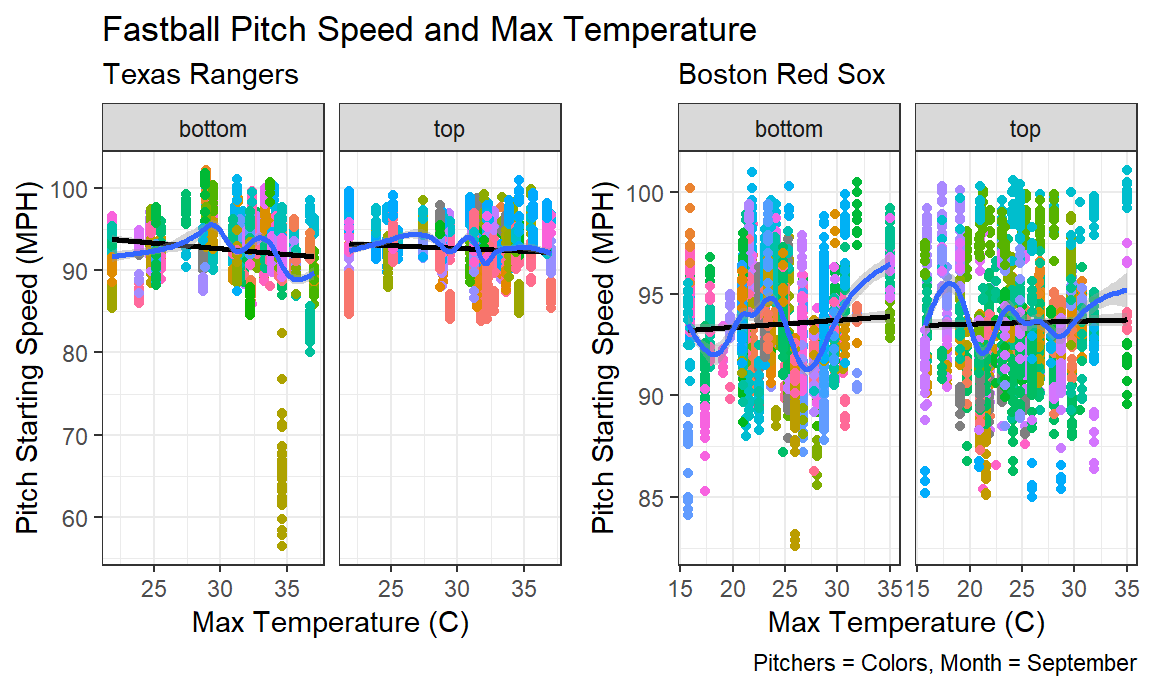
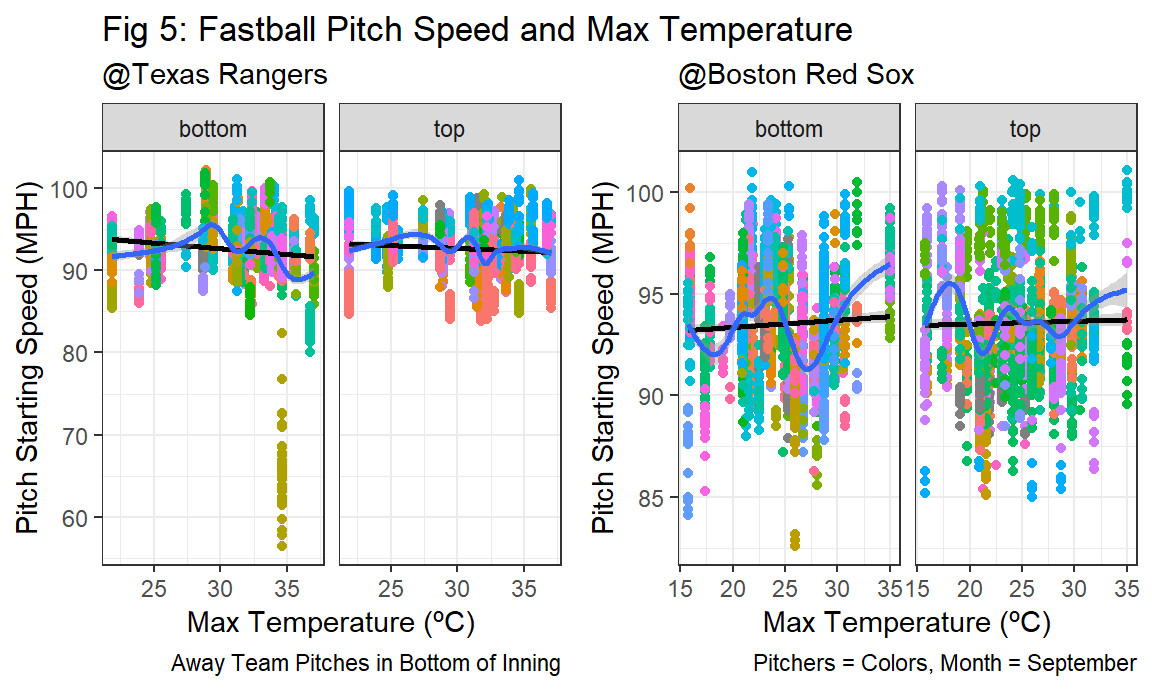
more tidying of the report and knitting

diff --git a/report_draft_two.html b/report_draft_two.html
@@ -230,7 +230,7 @@ $(document).ready(function () {
 <p>By: Brennan Baker, Nicole Comfort, Victoria Lynch, Stephen Lewandowski, Jenni Shearston</p>
 <div id="motivation-and-related-work" class="section level2">
 <h2>Motivation and Related Work</h2>
-<p>Advanced statistical analytics are central to evaluating players, developing teams, and informing in-game decisions throughout professional sports. The growing influence of sport analytics is arguably most evident in Major League Baseball, where teams that prioritize [sabermetrics] (<a href="https://sabr.org/sabermetrics" class="uri">https://sabr.org/sabermetrics</a>) have won the last three World Series. Baseball is uniquely suited to statistical analysis, as its components – pitching, hitting, and fielding – are discrete events that result in unambiguous decisions, as classified by the official game scorers, and can be attributed to specific players. Baseball also generates a substantial amount of data; the 30 MLB teams play a combined 2,430 games in the regular season, during which over 900,000 pitches are thrown across more than 165,000 at-bats.</p>
+<p>Advanced statistical analytics are central to evaluating players, developing teams, and informing in-game decisions throughout professional sports. The growing influence of sport analytics is arguably most evident in Major League Baseball, where teams that prioritize <a href="https://sabr.org/sabermetrics">sabermetrics</a> have won the last three World Series. Baseball is uniquely suited to statistical analysis, as its components – pitching, hitting, and fielding – are discrete events that result in unambiguous decisions, as classified by the official game scorers, and can be attributed to specific players. Baseball also generates a substantial amount of data; the 30 MLB teams play a combined 2,430 games in the regular season, during which over 900,000 pitches are thrown across more than 165,000 at-bats.</p>
 <p>Sabermetric analysts sift through this exhaustive amount of data to identify competitive advantages among increasingly similar, dominant players. The arms race between pitchers and hitters has elevated the game, as pitchers are throwing harder and batters are hitting more home runs than at any point in MLB history.</p>
 <p>In addition to assessing player matchups, analysts aim to identify external factors that could influence players’ performances, particularly weather. Over the course of a six-month MLB season, teams expect to play in a range of weather extremes, from 100-degree days in Los Angeles to snowy conditions in Milwaukee in the early spring. A growing body of sabermetric research has found that game-day weather affects <a href="https://journals.ametsoc.org/doi/abs/10.1175/WCAS-D-13-00002.1">the number of home runs</a>, <a href="https://www.betlabssports.com/blog/mlb-runs-scored-influenced-temperature/">total runs scored</a>, and <a href="https://www.fangraphs.com/blogs/what-pitchers-and-numbers-say-about-pitching-in-the-cold/">pitcher ball control</a>.</p>
 <p>Our goal was to build on this body of work by examining the association between weather variables – temperature, humidity, and relative humidity – and the speed of pitches. We hypothesized that on extremely hot days (&gt;35 ºC): 1) pitch speed would decrease and 2) the proportion of non-fastball to fastball pitches would increase. We used the PITCHf/x database from MLB Advanced Media to collect data for every pitch thrown between 2016 and 2018 and extracted daily temperature and humidity measures for each ballpark location from the PRISM database. We conducted exploratory data analysis to identify overall trends between weather variables and pitch speed or pitch type. We also used simple linear regression models to determine the effect of daily heat index and daily maximum temperature on the speed of four-seam fastballs. Finally, we focused on games played at Globe Life Park in Arlington, Texas, home of the Rangers, and examined the pitch speed of visiting pitchers, who presumably have not adapted to the extreme Texas heat, across heat extremes.</p>
@@ -265,7 +265,7 @@ $(document).ready(function () {
 <h4>Google Earth Engine</h4>
 <p>Using the code editor in the Google Earth Engine platform (<a href="https://code.earthengine.google.com" class="uri">https://code.earthengine.google.com</a>), we extracted maximum daily temperature (<code>tmax</code>), minimum daily temperature (<code>tmin</code>), and mean daily dew point temperature (<code>tdmean</code>) from April 2015 through October 2018 at each MLB stadium location. We obtained the latitude and longitude coordinates for each ballpark from a Google Fusion Table (<a href="https://fusiontables.google.com/DataSource?docid=1EXApOoxEgJUFlbMjUodfxBSWlRvgQNpABeddHqiN#rows:id=1" class="uri">https://fusiontables.google.com/DataSource?docid=1EXApOoxEgJUFlbMjUodfxBSWlRvgQNpABeddHqiN#rows:id=1</a>), which we imported to Earth Engine. We used JavaScript code to create arrays that collect each weather parameter mapped over each ballpark location for each day, reduced to the first observation reflecting the grid at the point of interest, which are then flattened to two dimensional tables.</p>
 <p><img src = "gee_screen_capture.PNG" height = "500px" width = "400px" /></p>
-<p>Figure 1. The image above is a screenshot of the Earth Engine code editor. The map displays maximum daily temperatures across the United States on July 05, 2018 from the PRISM model.</p>
+<p><strong>Fig 1:</strong> The image above is a screenshot of the Earth Engine code editor. The map displays maximum daily temperatures across the United States on July 05, 2018 from the PRISM model.</p>
 <p>The JavaScript code for downloading PRISM data is provided at (gee.html). A registered Google account is required to access the code editor.</p>
 </div>
 <div id="tidy-weather-data" class="section level4">
@@ -359,9 +359,9 @@ write_csv(weather, path = &quot;./data/weather.csv&quot;) </code></pre>
 </div>
 <div id="helpful-packages" class="section level4">
 <h4>Helpful packages</h4>
-<p>We gathered PITCHf/x data using the r package “pitchRx” (<a href="https://pitchrx.cpsievert.me/" class="uri">https://pitchrx.cpsievert.me/</a>). The “pitchRx” package relies on the “XML2R” package to easily convert XML tables into data tables in r. In particular, the “scrape” function in the “pitchRx” package allows you to gather all the pitch data between a specified start and end date.</p>
+<p>We gathered PITCHf/x data using the r package <a href="https://pitchrx.cpsievert.me/">“pitchRx”</a>. The “pitchRx” package relies on the “XML2R” package to easily convert XML tables into data tables in r. In particular, the “scrape” function in the “pitchRx” package allows you to gather all the pitch data between a specified start and end date.</p>
 <p>Gathering a large amount of pitch data, however, may use up too much random-access memory. To solve this problem, we used the “dplyr” package to create an SQLite database, which aids in memory management.</p>
-<p>The baseball data used for this project can be accessed by Google Drive here: (<a href="https://drive.google.com/drive/u/0/search?q=sqlite" class="uri">https://drive.google.com/drive/u/0/search?q=sqlite</a>)</p>
+<p>The baseball data used for this project can be accessed by Google Drive <a href="https://drive.google.com/drive/u/0/search?q=sqlite">here.</a></p>
 </div>
 <div id="gathering-pitch-data" class="section level4">
 <h4>Gathering pitch data</h4>
@@ -409,13 +409,13 @@ pitch_tidy_db = collect(inner_join(pitch, atbat, by = c(&quot;num&quot;, &quot;u
   left_join(weather_db) %&gt;% 
   # Remove stadiums with a roof
   filter(!home %in% c(&quot;aas&quot;, &quot;nas&quot;, &quot;tor&quot;, &quot;ari&quot;, &quot;sea&quot;, &quot;hou&quot;, &quot;tba&quot;, &quot;mia&quot;, &quot;1&quot;, &quot;2&quot;)) %&gt;%  
-  separate(date, c(&quot;y&quot;, &quot;m&quot;, &quot;d&quot;))
-  # Retain only XX of 81 variables, to make the size of the dataset easier to work with 
-  # select(start_speed, pitch_type, inning_side, inning, event, pitcher_name, y, m, d, team_name, tmax:rh, type) 
+  separate(date, c(&quot;y&quot;, &quot;m&quot;, &quot;d&quot;)) %&gt;% 
+  # Retain only some of 81 variables, to make the size of the dataset easier to work with 
+  select(start_speed, pitch_type, inning_side, inning, event, pitcher_name, y, m, d, team_name, tmax:rh, type, home, away) 
 
   # Remove unneeded intermediary data sets to clean environment
-  rm(atbat, my_db, pitch, team_names, weather_db)</code></pre>
-<p>Our final dataset that combines the pitch and weather data is named <code>pitch_tidy_db</code>. After retaining only certain variables of interest, the dataset incudes 2186391 observations of 81.</p>
+  rm(atbat, my_db, pitch, team_names, weather_db, tdmean, tmax, tmin)</code></pre>
+<p>Our final dataset that combines the pitch and weather data is named <code>pitch_tidy_db</code>. The initial dataset contained 2,186,391 observatins of 81 variables. After retaining only certain variables of interest, the dataset incudes 2186391 observations of 19 variables. We excluded Spring Training games, so that data includes only regular and postseason games. Also, games played at indoor stadiums were excluded, as these may not be affected by weather in the same way.</p>
 <p>We examine missing data in our dataset:</p>
 <pre class="r"><code># Examining pitch speed missing data
 missing_data = pitch_tidy_db %&gt;% 
@@ -449,26 +449,28 @@ propff_db %&gt;%
   geom_point() +
   geom_smooth() +
   labs(
-    title = &quot;Figure 2: Proportion of Thrown Pitches that are Fastballs and Max Temperature&quot;,
-    x = &quot;Proportion of Pitches that are Fastballs&quot;,
-    y = &quot;Max Temperature (C)&quot;
+    title = &quot;Fig 2: Percent of Four-seam Fastballs Thrown and Max Temp&quot;,
+    x = &quot;Percent of Pitches that are Fastballs&quot;,
+    y = &quot;Max Temperature (ºC)&quot;,
+    caption = &quot;Includes all pitches in regular and postseason, 2016-2018&quot;
   )</code></pre>
 <pre><code>## `geom_smooth()` using method = &#39;gam&#39; and formula &#39;y ~ s(x, bs = &quot;cs&quot;)&#39;</code></pre>
-<p><img src="report_draft_two_files/figure-html/prop.%20ff%20and%20tmax-1.png" width="90%" /></p>
+<p><img src="report_draft_two_files/figure-html/prop.%20ff%20and%20tmax-1.png" width="100%" /></p>
 <p>However, the graph indicated that absolutely no association existed between these variables.</p>
 <p>Next, several graphs were created to explore the associations between the speed of fastballs and maximum temperature (AD3). Graphs that depicted fastball speed and temperature overall did not suggest specific associations (not shown), so the data was instead faceted by various variables to explore the potential for variation by items such as pitch outcome, team, and pitch type. As one example below, fastball pitch speed against max temperature was plotted, and then faceted by pitch outcome (such as Strikeout, Walk, Single, etc).</p>
 <pre class="r"><code>pitch_tidy_db %&gt;% 
   filter(pitch_type == &quot;FF&quot;) %&gt;% 
   ggplot(aes(x = tmax, y = start_speed)) +
   geom_point() +
-  facet_wrap(~event) +
+  facet_wrap(~event, ncol = 5) +
   labs(
-    title = &quot;Figure 3: Fastball Pitch Speed and Max Temperature, by Pitch Outcome&quot;,
-    x = &quot;Max Temperature (C)&quot;,
-    y = &quot;Pitch Starting Speed (MPH)&quot;
+    title = &quot;Fig 3: Four-seam Fastball Pitch Speed and Max Temp&quot;,
+    x = &quot;Max Temperature (ºC)&quot;,
+    y = &quot;Pitch Starting Speed (MPH)&quot;,
+    caption = &quot;Results faceted by pitch outcome&quot;
   )</code></pre>
-<p><img src="report_draft_two_files/figure-html/ff%20speed%20and%20temp,%20by%20outcome-1.png" width="90%" /></p>
-<p>Interestingly, we can see from the increase in points on the right side of facets such as “Double,” “Flyout,” “Lineout,” “Home Run,” and other outcomes that pitch outcome may be affected by temperature. It may be possible that when temperatures are higher, pitches that are slightly slower are more likely to result in hits.</p>
+<p><img src="report_draft_two_files/figure-html/ff%20speed%20and%20temp,%20by%20outcome-1.png" width="100%" /></p>
+<p>Interestingly, we can see from the increase in points on the right side of facets such as “Double,” “Flyout,” “Lineout,” “Home Run,” and other outcomes that pitch outcome may be affected by temperature. It may be possible that when temperatures are higher, pitches are slightly slower and thus are more likely to result in hits.</p>
 <p>In further exploratory analysis, fastball speed and tempearture was also faceted by home team name (shown below), inning, and fowl/ball/strike status, and a graph of max temperature and pitch speed for all pitches, faceted by pitch type, was created (all not shown). There were some variations by inning and home team, and after discussion, we decided this might in fact be representative of changes in pitcher, and differences in whether or not a pitcher from a specific team typically played in warmer or colder weather. This possibility was explored next.</p>
 <pre class="r"><code>pitch_tidy_db %&gt;% 
   filter(pitch_type == &quot;FF&quot;) %&gt;% 
@@ -476,11 +478,12 @@ propff_db %&gt;%
   geom_point() +
   facet_wrap(~team_name) +
   labs(
-    title = &quot;Figure 4: Fastball Pitch Speed and Max Temperature, by Home Team&quot;,
-    x = &quot;Max Temperature (C)&quot;,
-    y = &quot;Pitch Starting Speed (MPH)&quot;
+    title = &quot;Fig 4: Four-seam Fastball Pitch Speed and Max Temp&quot;,
+    x = &quot;Max Temperature (ºC)&quot;,
+    y = &quot;Pitch Starting Speed (MPH)&quot;,
+    caption = &quot;Faceted by home team&quot;
   )</code></pre>
-<p><img src="report_draft_two_files/figure-html/ff%20speed%20and%20temp,%20by%20home%20team%20name-1.png" width="90%" /></p>
+<p><img src="report_draft_two_files/figure-html/ff%20speed%20and%20temp,%20by%20home%20team%20name-1.png" width="100%" /></p>
 <p>Further analysis restricted pitch type to the four-seam fastball, and facetted by top and bottom of the inning, to see if Rangers’ pitchers were less effected by heat than visiting pitchers. Additionally, a team from a colder climate, the Boston Red Sox, was selected for the same analysis. Month was restricted to September for two reasons: (1) during this month temperatures are in greater flux across the United States, and it may be reasonable to assume Texas is much hotter than other parts of the US and Boston is much colder, and (2) it has been suggested anecdotally that baseball pitchers may be affected most by changes in temperature, rather than by absolute heat or cold, particularly if they are not acclimatized to that temperature.</p>
 <p>The resulting plot is shown below.</p>
 <pre class="r"><code># Texas Rangers Stadium in September
@@ -493,9 +496,10 @@ tr9 = pitch_tidy_db %&gt;%
   geom_smooth() +
   facet_wrap(~inning_side) +
   labs(
-    title = &quot;Fastball Pitch Speed and Max Temperature&quot;, subtitle = &quot;Texas Rangers&quot;,
-    x = &quot;Max Temperature (C)&quot;,
-    y = &quot;Pitch Starting Speed (MPH)&quot;
+    title = &quot;Fig 5: Fastball Pitch Speed and Max Temperature&quot;, subtitle = &quot;@Texas Rangers&quot;,
+    x = &quot;Max Temperature (ºC)&quot;,
+    y = &quot;Pitch Starting Speed (MPH)&quot;,
+    caption = &quot;Away Team Pitches in Bottom of Inning&quot;
   ) +
   theme(legend.position = &quot;none&quot;)
 
@@ -509,8 +513,8 @@ brs9 = pitch_tidy_db %&gt;%
   geom_smooth() +
   facet_wrap(~inning_side) +
   labs(
-    title = &quot;&quot;, subtitle = &quot;Boston Red Sox&quot;,
-    x = &quot;Max Temperature (C)&quot;,
+    title = &quot;&quot;, subtitle = &quot;@Boston Red Sox&quot;,
+    x = &quot;Max Temperature (ºC)&quot;,
     y = &quot;Pitch Starting Speed (MPH)&quot;,
     caption = &quot;Pitchers = Colors, Month = September&quot;
   ) +
@@ -522,7 +526,7 @@ library(patchwork)
 tr9 + brs9</code></pre>
 <pre><code>## `geom_smooth()` using method = &#39;gam&#39; and formula &#39;y ~ s(x, bs = &quot;cs&quot;)&#39;
 ## `geom_smooth()` using method = &#39;gam&#39; and formula &#39;y ~ s(x, bs = &quot;cs&quot;)&#39;</code></pre>
-<p><img src="report_draft_two_files/figure-html/ff%20speed%20and%20tmax%20in%20sept,%20rangers%20and%20red%20sox%20stadiums-1.png" width="90%" /></p>
+<p><img src="report_draft_two_files/figure-html/ff%20speed%20and%20tmax%20in%20sept,%20rangers%20and%20red%20sox%20stadiums-1.png" width="100%" /></p>
 <p>In the plot, we can see that in Arlington, Texas, at the Texas Rangers’s Stadium, the Rangers appear to be less effected by variations in temperature, whereas visiting pitchers (the bottom of the inning) have a decrease in fastball speed at high temperatures. However, it should be noted that this trend may be driven by one visiting pitcher with particularly slow pitches in hotter weather. In Boston, it appears that visiting pitchers have decreases in fastball speed at colder temperatures, whereas Red Sox pitchers are more consistent regardless of temperature.</p>
 </div>
 <div id="relative-humidity" class="section level3">
@@ -560,7 +564,7 @@ pitch_tidy_db =
                            team_name == &quot;San Francisco Giants&quot; |
                            team_name == &quot;Colorado Rockies&quot;, &quot;west&quot;,
                   ifelse(team_name == &quot;Atlanta Braves&quot;, &quot;southeast&quot;, &quot;&quot;))))))</code></pre>
-<p>When examining the association between relative humidity and pitch start speed (all pitches and by pitch type), across all US regions, we found no associations. Heat index incorporates temperature and relative humidity, so we next looked at whether that would be more informative.</p>
+<p>When examining the association between relative humidity and pitch start speed (all pitches and by pitch type, not shown), across all US regions, we found no associations. Heat index incorporates temperature and relative humidity, so we next looked at whether that would be more informative.</p>
 </div>
 <div id="heat-index" class="section level3">
 <h3>Heat Index</h3>
@@ -572,7 +576,7 @@ pitch_tidy_db %&gt;%
   group_by(team_name) %&gt;% 
   filter(is.na(heat_index)) %&gt;% # we are missing pitch speed for 62,971 pitches 
   count() %&gt;% 
-  ungroup()# see if the missing data are (roughly) evenly distributed among the teams, Cubs are missing the most but it still seems pretty even </code></pre>
+  ungroup()</code></pre>
 <pre><code>## # A tibble: 4 x 2
 ##   team_name              n
 ##   &lt;chr&gt;              &lt;int&gt;
@@ -580,77 +584,44 @@ pitch_tidy_db %&gt;%
 ## 2 Cincinnati Reds      275
 ## 3 New York Mets        260
 ## 4 Pittsburgh Pirates   320</code></pre>
-<pre class="r"><code># # distribution by stadium
-# pitch_tidy_db %&gt;% 
-#   ggplot(aes(x = heat_index, fill = team_name)) + 
-#   geom_density(alpha = .4, adjust = .5)
-# # we can see that there are some teams that have a broader distribution; places like San Diego the heat index is pretty stable; we can break up by regions in other analyses 
-
-# # numerical summary
-# skim(pitch_tidy_db$heat_index)
-# 
-# heat_index_df =
-#   pitch_tidy_db %&gt;%
-#   group_by(team_name, m) %&gt;%
-#   summarize(mean_heat_index = mean(heat_index, na.rm = TRUE),
-#             median_heat_index = median(heat_index),
-#             sd_heat_index = sd(heat_index))
-
-# # plot the above table/info 
-# heat_index_df %&gt;% 
-#   ggplot(aes(x = m, y = mean_heat_index, color = team_name)) +
-#   geom_point() + geom_line()
-
-
-# the teams with the greatest range/variability in heat index are the Minnesota Twins, Washington Nationals, Cincinatti Reds, New York Yankees, and Kansas City Royals
-
-# the teams with the lowest range/variability in heat index (excluding values of 0.00) are the Los Angeles Angels of Anaheim, Detroit Tigers, Chicago White Sox, St. Louis Cardinals
-
-# maybe we can do comparisons within certain teams, for example how does someone on the Washington Nationals perform in high vs. low heat index 
-
-# pitch_tidy_db %&gt;% 
-#   filter(team_name == &quot;Washington Nationals&quot;) %&gt;% 
-#   ggplot(aes(x = m, y = start_speed)) +
-#   geom_boxplot()
-# tried adding geom_jitter but there are too many points 
-# more outliers at the warmer months with hotter heat index, but overall start speed looks the same </code></pre>
 <p>While the Cubs were missing the most heat index data, the distribution of missing heat index data was fairly evenly distributed across all teams. The distribution of the heat index overall is normally distributed (not shown).</p>
 <p>We next explored the distribution of the heat index across US regions the stadiums fall in:</p>
 <pre class="r"><code># heat index distribution by US region 
 pitch_tidy_db %&gt;% 
   ggplot(aes(x = heat_index, fill = US_region)) + 
-  geom_density(alpha = .4, adjust = .5)</code></pre>
-<p><img src="report_draft_two_files/figure-html/heat%20index%20distributions-1.png" width="90%" /></p>
-<pre class="r"><code>pitch_tidy_db %&gt;% 
-  ggplot(aes(x = heat_index)) + 
   geom_density(alpha = .4, adjust = .5) +
   facet_wrap(~US_region) +
     labs(
-    title = &quot;Distribution of Heat Index by US Region&quot;,
+    title = &quot;Fig 6: Distribution of Heat Index by US Region&quot;,
     x = &quot;Heat Index (ºC)&quot;,
-    y = &quot;Density&quot;
-  )</code></pre>
-<p><img src="report_draft_two_files/figure-html/heat%20index%20distributions-2.png" width="90%" /></p>
+    y = &quot;Density&quot;) +
+  theme(legend.position = &quot;none&quot;)</code></pre>
+<p><img src="report_draft_two_files/figure-html/heat%20index%20distributions-1.png" width="100%" /></p>
 <p>The Southwest, followed by the the Southeast, had the highest heat index. The west had a fairly normal distribution, and appeared to be the most stable and pleasant. The Southeast and Southwest had skewed distributions.</p>
-<p>Exploratory analyses examining pitch speed (of all pitches) vs. heat index indicated that pitch start speed may slightly decrease at extreme heat indexes (e.g. over 35 ºC), particularly for four-seam fastballs in the Southwest and West.</p>
+<p>Exploratory analyses examining pitch speed (of all pitches) vs. heat index indicated that pitch start speed may slightly increase at extreme heat indexes (e.g. over 35 ºC). However, there are also increased outliers, i.e. slower pitches, at higher heat indexes.</p>
 <pre class="r"><code># pitch speed (all types) vs. heat index, colored by US region 
 pitch_tidy_db %&gt;% 
-  ggplot(aes(x = heat_index, y = start_speed, color = US_region)) +
+  filter(pitch_type != &quot;AB&quot;) %&gt;% 
+  filter(pitch_type != &quot;UN&quot;) %&gt;% 
+  filter(pitch_type != &quot;NA&quot;) %&gt;% 
+  mutate(Region = US_region) %&gt;% 
+  ggplot(aes(x = heat_index, y = start_speed, color = Region)) +
   geom_point(alpha = .3) +
-  facet_wrap(~pitch_type) +
+  facet_wrap(~pitch_type, ncol = 3) +
     labs(
-    title = &quot;Pitch Start Speed vs. Heat Index&quot;, subtitle = &quot;Colored by US Region&quot;,
+    title = &quot;Fig 7: Pitch Start Speed vs. Heat Index&quot;, subtitle = &quot;Colored by US Region&quot;,
     x = &quot;Heat Index (ºC)&quot;,
-    y = &quot;Pitch Starting Speed (MPH)&quot;
+    y = &quot;Pitch Starting Speed (MPH)&quot;,
+    caption = &quot;Faceted by Pitch Type (link to key below)&quot;
   )</code></pre>
-<p><img src="report_draft_two_files/figure-html/pitch%20speed%20(all%20types)%20vs.%20heat%20index-1.png" width="90%" /></p>
+<p><img src="report_draft_two_files/figure-html/pitch%20speed%20(all%20types)%20vs.%20heat%20index-1.png" width="100%" /> <a href="https://www.fangraphs.com/library/pitch-type-abbreviations-classifications/">Pitch Type Key</a></p>
 <p>However, when examining this further by categorizing heat index (e.g. above and below 35) and looking at the relationship between pitch speed and heat index, there was no obvious association.</p>
 </div>
 </div>
 <div id="additional-anlaysis-plots" class="section level2">
 <h2>Additional Anlaysis: Plots</h2>
 <p>The plot of fastball pitch speed by max temperature, faceted by home team, suggested that temperature may affect pitches thrown at several stadiums. Texas Rangers stadium was selected as an example becuase it had a number of pitches with decreased speed at higher temperatures, and a Shiny plot showing associations between pitch speed and temperature at the Texas Rangers’s stadium in Arlington, Texas was created. A user can select the visiting team to see how its pitch speed is affected by temperature when playing @ the Texas Rangers.</p>
-<p>Access the Shiny plot [here] (<a href="https://brennanhilton.shinyapps.io/Pitch_Speed_at_the_Texas_Rangers_Stadium/" class="uri">https://brennanhilton.shinyapps.io/Pitch_Speed_at_the_Texas_Rangers_Stadium/</a>).</p>
+<p>Access the Shiny plot <a href="https://brennanhilton.shinyapps.io/Pitch_Speed_at_the_Texas_Rangers_Stadium/">here</a>.</p>
 </div>
 <div id="statistical-analysis-linear-models" class="section level2">
 <h2>Statistical Analysis: Linear Models</h2>
